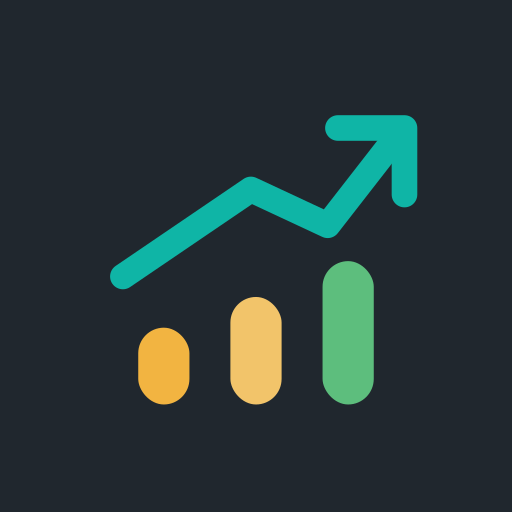
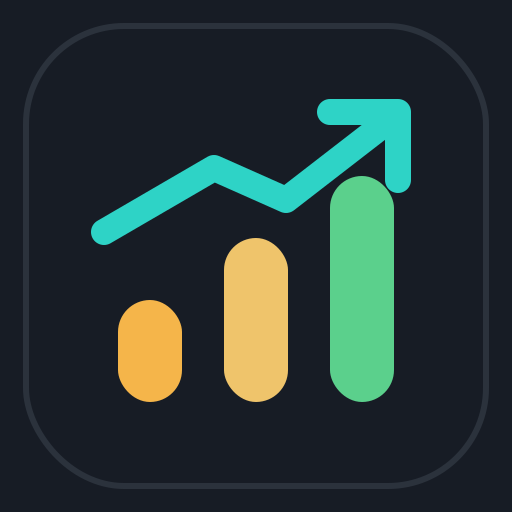
Add files via upload

Changed region(s): [[0.1562, 0.1875, 0.8438, 0.8125], [0.4375, 0.4688, 0.5625, 0.7812], [0.4688, 0.7812, 0.5312, 0.8125]]

diff --git a/index.html b/index.html
@@ -10,15 +10,17 @@
 <meta name="mobile-web-app-capable" content="yes">
 <title>MiAhorro</title>
 <link rel="manifest" href="manifest.json">
-<link rel="apple-touch-icon" href="icons/icon-180.png">
-<link rel="icon" type="image/png" href="icons/icon-192.png">
+<link rel="apple-touch-icon" href="icon-180.png">
+<link rel="apple-touch-icon" sizes="180x180" href="icon-180.png">
+<link rel="icon" type="image/png" href="icon-192.png">
 <script src="https://cdn.jsdelivr.net/npm/chart.js@4.4.1/dist/chart.umd.min.js"></script>
 <script src="https://cdn.jsdelivr.net/npm/xlsx@0.18.5/dist/xlsx.full.min.js"></script>
 <script src="https://cdnjs.cloudflare.com/ajax/libs/pdf.js/3.11.174/pdf.min.js"></script>
 <style>
   :root{--navy:#12203a;--teal:#0FB5A6;--coral:#F0685A;--amber:#F2B441;--purple:#8B6DB3;
-        --ink:#1f2d3d;--muted:#7c8797;--bg:#f5f7fa;--card:#fff;--line:#e9edf2;--green:#22A06B}
-  body.dark{--navy:#e8edf4;--ink:#e8edf4;--muted:#8a97a8;--bg:#0e1521;--card:#161f2e;--line:#243040}
+        --ink:#1f2d3d;--muted:#7c8797;--bg:#f5f7fa;--card:#fff;--line:#e9edf2;--green:#22A06B;--barbg:#eef2f7;--okbg:#e6f6ee;--nobg:#fdeceb;--warnbg:#fff2d6}
+  body.dark{--navy:#e8edf4;--ink:#e8edf4;--muted:#8a97a8;--bg:#0e1521;--card:#161f2e;--line:#243040;
+            --barbg:#243040;--okbg:#123a29;--nobg:#3a1c1c;--warnbg:#3a2f14}
   body.dark .selarrow{background:#243040;color:#e8edf4}
   body.dark th{background:#0b1220}
   body.dark .kpi-x{background:#3a475c}
@@ -45,10 +47,10 @@
   .head .title-icon{margin-left:2px}
   .head .sp{margin-left:auto;display:flex;gap:8px}
   .btn{border:0;border-radius:11px;padding:9px 13px;font-weight:700;font-size:13px;cursor:pointer;display:inline-flex;align-items:center;gap:6px}
-  .btn-primary{background:var(--teal);color:#fff}.btn-ghost{background:#fff;color:var(--ink);border:1px solid var(--line)}
+  .btn-primary{background:var(--teal);color:#fff}.btn-ghost{background:var(--card);color:var(--ink);border:1px solid var(--line)}
   .btn:active{transform:scale(.97)}
   select,input{font-family:inherit}
-  select.f{border:1px solid var(--line);border-radius:10px;padding:8px 10px;font-weight:700;font-size:13px;background:#fff;color:var(--ink)}
+  select.f{border:1px solid var(--line);border-radius:10px;padding:8px 10px;font-weight:700;font-size:13px;background:var(--card);color:var(--ink)}
   .filters{display:flex;gap:8px;flex-wrap:wrap;margin-bottom:14px;align-items:center}
   .selmes{display:flex;align-items:center;gap:8px;background:var(--card);border:1px solid var(--line);border-radius:14px;padding:6px;margin-bottom:12px}
   .selarrow{flex:0 0 44px;height:44px;border:0;border-radius:11px;background:var(--bg);color:var(--navy);font-size:24px;font-weight:800;cursor:pointer;line-height:1}
@@ -66,23 +68,23 @@
   .panel h3{margin:0 0 10px;font-size:14px;font-weight:800;color:var(--navy)}
   .chartbox{position:relative;height:250px}
   .empty{color:var(--muted);font-size:13px;text-align:center;padding:30px 0}
-  table{width:100%;border-collapse:collapse;background:#fff;border-radius:12px;overflow:hidden;border:1px solid var(--line)}
+  table{width:100%;border-collapse:collapse;background:var(--card);color:var(--ink);border-radius:12px;overflow:hidden;border:1px solid var(--line)}
   th{background:var(--navy);color:#fff;font-size:11px;padding:8px;text-align:left}
   td{padding:7px 8px;border-top:1px solid var(--line);font-size:12.5px}
-  td select{border:1px solid var(--line);border-radius:6px;padding:4px;font-size:12px;width:100%;max-width:170px}
+  td select{border:1px solid var(--line);border-radius:6px;padding:4px;font-size:12px;width:100%;max-width:170px;background:var(--card);color:var(--ink)}
   td.num{text-align:right;font-variant-numeric:tabular-nums;white-space:nowrap}
   .neg{color:var(--coral)}.pos{color:var(--green)}
   .del{color:var(--coral);cursor:pointer;font-weight:800;border:0;background:none;font-size:15px}
   .tag{display:inline-block;padding:2px 7px;border-radius:20px;font-size:10px;font-weight:700}
-  .tag.trans{background:#eef2f7;color:var(--muted)}.tag.pet{background:#fff2d6;color:#8a5a00}.tag.aho{background:#e6f6ee;color:var(--green)}
-  .param{background:#fff;border:1px solid var(--line);border-radius:12px;padding:10px 12px;margin-bottom:8px}
+  .tag.trans{background:var(--barbg);color:var(--muted)}.tag.pet{background:var(--warnbg);color:#8a5a00}.tag.aho{background:var(--okbg);color:var(--green)}
+  .param{background:var(--card);border:1px solid var(--line);border-radius:12px;padding:10px 12px;margin-bottom:8px}
   .param label{display:block;font-size:11px;color:var(--muted);font-weight:700;margin-bottom:4px}
-  .param input{border:1px solid var(--line);border-radius:8px;padding:8px;width:100%;font-size:14px;font-weight:700}
+  .param input{border:1px solid var(--line);border-radius:8px;padding:8px;width:100%;font-size:14px;font-weight:700;background:var(--bg);color:var(--ink)}
   .badge{display:inline-block;padding:3px 10px;border-radius:20px;font-size:13px;font-weight:800}
-  .badge.ok{background:#e6f6ee;color:var(--green)}.badge.no{background:#fdeceb;color:var(--coral)}
-  .bar{height:8px;background:#eef2f7;border-radius:6px;overflow:hidden;margin-top:4px}
+  .badge.ok{background:var(--okbg);color:var(--green)}.badge.no{background:var(--nobg);color:var(--coral)}
+  .bar{height:8px;background:var(--barbg);border-radius:6px;overflow:hidden;margin-top:4px}
   .bar>span{display:block;height:100%;background:var(--teal)}.bar.warn>span{background:var(--amber)}.bar.over>span{background:var(--coral)}
-  .metabar{position:relative;height:34px;background:#eef2f7;border-radius:12px;overflow:hidden;margin-top:6px}
+  .metabar{position:relative;height:34px;background:var(--barbg);border-radius:12px;overflow:hidden;margin-top:6px}
   .metabar>span{display:block;height:100%;background:linear-gradient(90deg,var(--teal),var(--green));border-radius:12px;transition:width .4s}
   .metabar.warn>span{background:linear-gradient(90deg,var(--amber),#e89b1c)}
   .metabar.over>span{background:linear-gradient(90deg,var(--coral),#d94f42)}
@@ -96,7 +98,7 @@
   .budgetrow{display:grid;grid-template-columns:1fr 100px auto;gap:8px;align-items:center;padding:7px 0;border-top:1px solid var(--line)}
   .budgetrow input{border:1px solid var(--line);border-radius:8px;padding:6px;font-size:13px}
   /* barra de pestañas inferior tipo app */
-  .tabs{position:fixed;left:0;right:0;bottom:0;background:#fff;border-top:1px solid var(--line);display:flex;z-index:40;box-shadow:0 -2px 10px rgba(0,0,0,.04)}
+  .tabs{position:fixed;left:0;right:0;bottom:0;background:var(--card);border-top:1px solid var(--line);display:flex;z-index:40;box-shadow:0 -2px 10px rgba(0,0,0,.04)}
   .tab{flex:1;border:0;background:none;padding:9px 4px 8px;font-size:10.5px;font-weight:700;color:var(--muted);cursor:pointer;display:flex;flex-direction:column;align-items:center;gap:3px}
   .tab .ic{font-size:19px}
   .tab.active{color:var(--teal)}
@@ -104,7 +106,17 @@
   .tips div.tip{display:flex;gap:10px;padding:9px 0;border-top:1px solid var(--line)}
   .overlay{position:fixed;inset:0;background:rgba(18,32,58,.5);display:none;align-items:flex-end;justify-content:center;z-index:60}
   .overlay.show{display:flex}
-  .modal{background:#fff;border-radius:18px 18px 0 0;padding:20px;width:100%;max-width:640px;max-height:88vh;overflow:auto}
+  .modal{background:var(--card);color:var(--ink);border-radius:18px 18px 0 0;padding:20px;width:100%;max-width:640px;max-height:88vh;overflow:auto}
+  .modal.welcome{border-radius:20px;max-width:420px;text-align:center;padding:26px 22px;margin:auto}
+  .wel-logo{display:flex;justify-content:center;margin-bottom:14px}
+  .wel-title{font-size:23px;font-weight:800;color:var(--navy);margin:0 0 8px}
+  .wel-sub{font-size:14px;color:var(--muted);line-height:1.45;margin:0 0 18px}
+  .wel-steps{text-align:left;display:flex;flex-direction:column;gap:12px;margin-bottom:16px}
+  .wel-step{display:flex;gap:11px;align-items:flex-start}
+  .wel-num{flex:0 0 26px;height:26px;border-radius:50%;background:var(--teal);color:#fff;font-weight:800;font-size:13px;display:flex;align-items:center;justify-content:center}
+  .wel-step b{display:block;font-size:14px;color:var(--ink);margin-bottom:1px}
+  .wel-step span{font-size:12.5px;color:var(--muted);line-height:1.4}
+  .wel-priv{font-size:12px;font-weight:700;color:var(--green);background:var(--okbg);border-radius:10px;padding:9px;margin-bottom:16px}
   @media(min-width:620px){.overlay{align-items:center}.modal{border-radius:18px}}
   .modal h3{margin:0 0 6px}.modal label{font-weight:700;font-size:13px;display:block;margin-top:10px}
   .modal select,.modal input[type=number],.modal input[type=text],.modal input[type=date]{width:100%;border:1px solid var(--line);border-radius:10px;padding:10px;font-size:14px}
@@ -121,13 +133,14 @@
 <div class="wrap">
   <div class="head">
     <div class="brand">
-      <svg width="36" height="36" viewBox="0 0 200 200" xmlns="http://www.w3.org/2000/svg" style="flex:0 0 36px">
-        <rect x="8" y="8" width="184" height="184" rx="46" fill="#20272e" stroke="#3a424c" stroke-width="2.5"/>
-        <rect x="54" y="128" width="20" height="30" rx="10" fill="#F2B441"/>
-        <rect x="90" y="116" width="20" height="42" rx="10" fill="#F2C46A"/>
-        <rect x="126" y="102" width="20" height="56" rx="10" fill="#5DBE7D"/>
-        <path d="M48 108 L98 74 L128 88 L156 52" fill="none" stroke="#0FB5A6" stroke-width="10" stroke-linecap="round" stroke-linejoin="round"/>
-        <path d="M132 50 L158 50 L158 76" fill="none" stroke="#0FB5A6" stroke-width="10" stroke-linecap="round" stroke-linejoin="round"/>
+      <svg width="36" height="36" viewBox="0 0 512 512" xmlns="http://www.w3.org/2000/svg" style="flex:0 0 36px">
+        <rect x="0" y="0" width="512" height="512" rx="118" fill="#171C25"/>
+        <rect x="26" y="26" width="460" height="460" rx="98" fill="none" stroke="#2B323C" stroke-width="6"/>
+        <rect x="118" y="300" width="64" height="102" rx="32" fill="#F5B54A"/>
+        <rect x="224" y="238" width="64" height="164" rx="32" fill="#EFC46B"/>
+        <rect x="330" y="176" width="64" height="226" rx="32" fill="#5BD08C"/>
+        <path d="M104 232 L214 168 L286 200 L392 118" fill="none" stroke="#2ED3C6" stroke-width="26" stroke-linecap="round" stroke-linejoin="round"/>
+        <path d="M330 112 L398 112 L398 180" fill="none" stroke="#2ED3C6" stroke-width="26" stroke-linecap="round" stroke-linejoin="round"/>
       </svg>
       <span class="brand-txt">Mi<span class="brand-hl">Ahorro</span></span>
     </div>
@@ -204,6 +217,32 @@
   <div class="row"><button class="btn btn-primary" onclick="closeM('ov-desglose')">Cerrar</button></div>
 </div></div>
 
+<div class="overlay" id="ov-welcome"><div class="modal welcome">
+  <div class="wel-logo">
+    <svg width="76" height="76" viewBox="0 0 512 512" xmlns="http://www.w3.org/2000/svg">
+      <rect x="0" y="0" width="512" height="512" rx="118" fill="#171C25"/>
+      <rect x="26" y="26" width="460" height="460" rx="98" fill="none" stroke="#2B323C" stroke-width="6"/>
+      <rect x="118" y="300" width="64" height="102" rx="32" fill="#F5B54A"/>
+      <rect x="224" y="238" width="64" height="164" rx="32" fill="#EFC46B"/>
+      <rect x="330" y="176" width="64" height="226" rx="32" fill="#5BD08C"/>
+      <path d="M104 232 L214 168 L286 200 L392 118" fill="none" stroke="#2ED3C6" stroke-width="26" stroke-linecap="round" stroke-linejoin="round"/>
+      <path d="M330 112 L398 112 L398 180" fill="none" stroke="#2ED3C6" stroke-width="26" stroke-linecap="round" stroke-linejoin="round"/>
+    </svg>
+  </div>
+  <h2 class="wel-title">Bienvenido a <span style="color:var(--teal)">MiAhorro</span></h2>
+  <p class="wel-sub">Controla tus gastos y mira crecer tu ahorro. Sin registros, sin cuentas: todo se queda en tu móvil.</p>
+  <div class="wel-steps">
+    <div class="wel-step"><div class="wel-num">1</div><div><b>Sube tu extracto</b><span>PDF de tu banco o CSV. Se lee aquí mismo, no se envía a ningún sitio.</span></div></div>
+    <div class="wel-step"><div class="wel-num">2</div><div><b>Revisa las categorías</b><span>Se clasifican solas. Lo que corrijas, se aprende para la próxima.</span></div></div>
+    <div class="wel-step"><div class="wel-num">3</div><div><b>Ponte una meta</b><span>Verás cuánto llevas y cuándo la alcanzarás a tu ritmo.</span></div></div>
+  </div>
+  <div class="wel-priv">🔒 Tus datos nunca salen de este dispositivo</div>
+  <div class="row" style="flex-direction:column;gap:8px">
+    <button class="btn btn-primary" style="width:100%;justify-content:center;padding:13px" onclick="cerrarWelcome(true)">📤 Subir mi primer extracto</button>
+    <button class="btn btn-ghost" style="width:100%;justify-content:center" onclick="cerrarWelcome(false)">Explorar por mi cuenta</button>
+  </div>
+</div></div>
+
 <script>
 pdfjsLib.GlobalWorkerOptions.workerSrc='https://cdnjs.cloudflare.com/ajax/libs/pdf.js/3.11.174/pdf.worker.min.js';
 /* ================= LÓGICA (categorías, reglas, parsers) ================= */
@@ -227,7 +266,9 @@ var CAT_AHORRO='Ahorro (a MyInvestor)';
 var CAT_MASCOTA='Mascota';
 
 // Palabras que identifican un ingreso REAL de nómina/facturación
-var NOMINA_KW=['CARAT','REFINERY','SEEDTAG'];
+// Palabras genéricas que identifican una nómina. El usuario puede añadir el nombre
+// de SU empresa desde Ajustes (se guarda solo en su navegador, nunca en el código).
+var NOMINA_KW=['NOMINA','NÓMINA','PAYROLL','SALARIO','SUELDO','RETRIBUCION','RETRIBUCIÓN'];
 // Conceptos que indican APORTACIÓN A AHORRO (tanto MyInvestor como Cuenta Naranja mensual)
 var AHORRO_KW=['MYINVESTOR','MY INVESTOR','INVERSION','INVERSIÓN','MENSUAL','NARANJA','AHORRO'];
 // Traspasos "puros" que no cuentan ni como gasto, ni como ingreso, ni como ahorro
@@ -240,7 +281,14 @@ var CONCEPTO_PERSONAL=['SIN CONCEPTO','SOBRA','DEVUELVAS'];
 
 function upper(s){return String(s||'').toUpperCase();}
 function containsAny(s,arr){s=upper(s);for(var i=0;i<arr.length;i++){if(s.indexOf(arr[i])>=0)return true;}return false;}
-function esNomina(concepto){return containsAny(concepto,NOMINA_KW);}
+function esNomina(concepto){
+  if(containsAny(concepto,NOMINA_KW))return true;
+  // Empresas/pagadores que el usuario haya configurado en Ajustes (solo en su navegador)
+  var extra=(state&&state.params&&state.params.nominaKw)||'';
+  if(!extra)return false;
+  var lista=String(extra).split(/[,;\n]+/).map(function(s){return s.trim().toUpperCase();}).filter(Boolean);
+  return containsAny(concepto,lista);
+}
 // Bizum/transferencia RECIBIDA de una persona → ingreso.
 // Distingue "recibido/abono" (entra) de "emitido/enviado" (sale). Excluye movimientos propios.
 function esBizumRecibido(concepto){
@@ -266,13 +314,13 @@ function esCuentaAhorro(cuenta){
 //  - Concepto que menciona la otra cuenta de ahorro pero vive en NÓMINA/Abanca → también ahorro
 //  - Los demás traspasos internos (NÓMINA↔NoCuenta) → CAT_TRASPASO
 //  - Conceptos de piso/personal → CAT_TRASPASO
-//  - Nómina reconocida (Carat/Refinery/Seedtag) → CAT_INGRESO
+//  - Nómina reconocida (palabras genéricas + las que configure el usuario) → CAT_INGRESO
 //  - Negativos con comercios → gasto según regla
 function categorizar(concepto, importe, cuenta){
   var c=upper(concepto), cta=upper(cuenta||'');
 
   // ══ REGLA DE ORO ══
-  // INGRESO = solo tu nómina real (CARAT/REFINERY/SEEDTAG).
+  // INGRESO = tu nómina real + bizums recibidos de personas.
   // GASTO   = solo dinero que sale a un tercero (comercio, recibo, alquiler).
   // TRASPASO = mover TU dinero entre TUS cuentas (Abanca↔ING↔Naranja↔MyInvestor). No cuenta.
   // AHORRO  = aportar/retirar de tus cuentas de ahorro (Naranja, MyInvestor).
@@ -295,7 +343,7 @@ function categorizar(concepto, importe, cuenta){
   if(/\bTRASPASO\b|MOVIMIENTO ING|ENTRE CUENTAS|A MI CUENTA|A CUENTA PROPIA|CUENTA PROPIA/i.test(c)) return CAT_TRASPASO;
 
   // 4) POSITIVOS (entra dinero):
-  //    - Nómina (Carat/Refinery/Seedtag) → INGRESO
+  //    - Nómina (genérica o configurada en Ajustes) → INGRESO
   //    - Bizum recibido de una persona → INGRESO
   //    - Lo demás (mover tu propio dinero entre cuentas) → TRASPASO
   if(importe>0){
@@ -560,7 +608,7 @@ function parseCsv(t,sep){var rows=[],row=[],f='',q=false;for(var i=0;i<t.length;
 
 /* ================= ESTADO (solo un perfil) ================= */
 var KEY='misGastos_v1';
-function nuevoEstado(){return {params:{obj:400,umbral:15,saldoInicial:0,saldoFecha:'',objTotal:0},mov:[],rules:REGLAS_DEF.slice(),budgets:{},hiddenKpis:[]};}
+function nuevoEstado(){return {params:{obj:400,umbral:15,saldoInicial:0,saldoFecha:'',objTotal:0,nominaKw:''},mov:[],rules:REGLAS_DEF.slice(),budgets:{},hiddenKpis:[]};}
 var state=cargar();
 function cargar(){try{var s=localStorage.getItem(KEY);
   if(!s){ // intentar migrar de la versión pareja (v3) si existiera
@@ -618,7 +666,8 @@ function promedioAhorro(){var ms=meses();if(!ms.length)return {v:0,fuente:'sin-d
 function setTab(t){tab=t;[].forEach.call(document.querySelectorAll('.tab'),function(b){b.classList.toggle('active',b.dataset.v===t);});
   [].forEach.call(document.querySelectorAll('.view'),function(v){v.classList.remove('active');});
   document.getElementById('v-'+t).classList.add('active');
-  document.querySelector('.filters').style.display=(t==='ajustes')?'none':'flex';
+  // Los filtros de categoría/mascota solo tienen sentido en Resumen y Movimientos
+  document.querySelector('.filters').style.display=(t==='ajustes'||t==='ahorro')?'none':'flex';
   render();window.scrollTo(0,0);}
 function setMes(v){mes=v;render();}
 function setMask(v){maskFilter=v;render();}
@@ -672,7 +721,7 @@ function renderResumen(){
     +avisoBalance(d)
     +comparativaMes()
     +resumenAnual()
-    +'<div class="panel"><h3>🧭 ¿Dónde se va el dinero?</h3><div class="chartbox"><canvas id="cDon"></canvas></div></div>'
+    +'<div class="panel"><h3>🧭 ¿Dónde se va el dinero?</h3><div class="chartbox"><canvas id="cDon"></canvas></div><div id="donInfo"></div><div class="hint" style="text-align:center;margin-top:6px">Toca una porción para ver el importe</div></div>'
     +'<div class="panel"><h3>⚖ Gasto vs Ahorro</h3><div class="chartbox"><canvas id="cBar"></canvas></div></div>'
     +renderPresupuestos()
     +renderTips();
@@ -695,7 +744,7 @@ function avisoBalance(d){
   if(balance<0){
     // Ingresos cubren gastos, pero al sumar el ahorro te pasas → aportaste ahorro tirando de colchón
     return '<div class="panel" style="border-left:4px solid var(--amber)">'
-      +'<div style="font-weight:800;color:#c8860a;font-size:14px">💡 Aportaste más al ahorro de lo que te sobró</div>'
+      +'<div style="font-weight:800;color:var(--amber);font-size:14px">💡 Aportaste más al ahorro de lo que te sobró</div>'
       +'<div style="font-size:13px;color:var(--ink);margin-top:5px">Ingresaste '+eur0.format(d.ingresos)+', gastaste '+eur0.format(d.gastos)+' y ahorraste '+eur0.format(d.ahorroExplicito)+'. Para cuadrar el ahorro tiraste '+eur0.format(-balance)+' de tu colchón. Es normal si fue a propósito.</div></div>';
   }
   return '';
@@ -844,11 +893,11 @@ function renderMetaTotal(ahoAcum,pp){
     var fecha=new Date();fecha.setMonth(fecha.getMonth()+mesesFaltan);
     var fstr=['ene','feb','mar','abr','may','jun','jul','ago','sep','oct','nov','dic'][fecha.getMonth()]+' '+fecha.getFullYear();
     var tiempoTxt = mesesFaltan<=1?'el mes que viene':(mesesFaltan<12?('en '+mesesFaltan+' meses'):('en '+Math.floor(mesesFaltan/12)+' año'+(mesesFaltan>=24?'s':'')+(mesesFaltan%12?' y '+(mesesFaltan%12)+' meses':'')));
-    proy='<div style="margin-top:12px;padding:12px;background:#eef7f2;border-radius:12px">'
+    proy='<div style="margin-top:12px;padding:12px;background:var(--okbg);border-radius:12px">'
       +'<div style="font-size:14px;font-weight:800;color:var(--navy)">📅 Si sigues ahorrando '+eur0.format(ritmo)+'/mes…</div>'
       +'<div style="font-size:13px;color:var(--ink);margin-top:4px">Alcanzarás tu meta <b style="color:var(--green)">'+tiempoTxt+'</b> (sobre '+fstr+'). Te faltan <b>'+eur0.format(falta)+'</b>.</div></div>';
   } else {
-    proy='<div style="margin-top:12px;padding:12px;background:#fdeceb;border-radius:12px;font-size:13px">Aún no tengo ritmo de ahorro para estimar. Sube algún extracto con aportaciones.</div>';
+    proy='<div style="margin-top:12px;padding:12px;background:var(--nobg);border-radius:12px;font-size:13px">Aún no tengo ritmo de ahorro para estimar. Sube algún extracto con aportaciones.</div>';
   }
   return '<div class="panel">'
     +'<h3 style="display:flex;justify-content:space-between;align-items:center">🏁 Meta de ahorro total <span style="font-weight:normal;font-size:12px;color:var(--muted)">'+eur0.format(ahoAcum)+' / '+eur0.format(meta)+'</span></h3>'
@@ -861,6 +910,7 @@ function renderAjustes(){
   document.getElementById('v-ajustes').innerHTML=
      '<div class="panel"><h3>⚙ Tus ajustes</h3>'
     +'<div class="param"><label>Objetivo de ahorro al mes (€)</label><input type="number" step="10" value="'+(p.obj||0)+'" onchange="setParam(\'obj\',this.value)"></div>'
+    +'<div class="param"><label>💼 Quién te paga la nómina <span style="font-weight:normal;color:var(--muted);font-size:11px">— nombre que aparece en tu banco. Varios separados por comas. Se guarda solo en tu móvil.</span></label><input type="text" placeholder="Ej: MI EMPRESA SL, GRUPO XYZ" value="'+esc(p.nominaKw||'')+'" onchange="setParam(\'nominaKw\',this.value)"></div>'
     +'<div class="param"><label>🏁 Meta de ahorro TOTAL (€) — a dónde quieres llegar</label><input type="number" step="500" value="'+(p.objTotal||0)+'" onchange="setParam(\'objTotal\',this.value)"></div>'
     +'<div class="param"><label>Umbral gasto hormiga (€)</label><input type="number" step="1" value="'+(p.umbral||0)+'" onchange="setParam(\'umbral\',this.value)"></div>'
     +'<div class="param"><label>💰 Saldo ahorrado inicial (€)</label><input type="number" step="100" value="'+(p.saldoInicial||0)+'" onchange="setParam(\'saldoInicial\',this.value)"></div>'
@@ -876,6 +926,7 @@ function renderAjustes(){
     +'<input type="file" id="restore" accept="application/json" style="display:none" onchange="importBackup(event)">'
     +'<button class="btn btn-ghost" onclick="document.getElementById(\'impxls\').click()">📊 Importar mi Excel</button>'
     +'<input type="file" id="impxls" accept=".xlsx,.xls" style="display:none" onchange="importExcel(event)">'
+    +'<button class="btn btn-ghost" onclick="openM(\'ov-welcome\')">👋 Ver la bienvenida</button>'
     +'<button class="btn btn-ghost" onclick="borrarTodo()">🧹 Borrar todo</button>'
     +'</div><div class="hint" style="margin-top:10px">Tus datos se guardan solo en este dispositivo. Haz copia de vez en cuando.</div></div>';
   // presupuestos
@@ -884,29 +935,61 @@ function renderAjustes(){
     return '<div class="budgetrow"><div style="font-size:13px"><b>'+c+'</b></div><input type="number" step="10" placeholder="—" value="'+(b[c]||'')+'" onchange="setBudget(\''+c.replace(/'/g,"\\'")+'\',this.value)"><span class="hint">€/mes</span></div>';
   }).join('');
 }
-function setParam(k,v){if(k==='saldoFecha')state.params[k]=v||'';else state.params[k]=parseFloat(v)||0;guardar();render();}
+function setParam(k,v){
+  if(k==='saldoFecha'||k==='nominaKw')state.params[k]=v||'';
+  else state.params[k]=parseFloat(v)||0;
+  guardar();render();
+}
 function setBudget(c,v){var n=parseFloat(v);if(!n||n<=0)delete state.budgets[c];else state.budgets[c]=n;guardar();}
 
 /* ---------- charts ---------- */
+function esOscuro(){return document.body.classList.contains('dark');}
+function colorTema(){return esOscuro()?{txt:'#e8edf4',grid:'#243040',borde:'#161f2e'}:{txt:'#1f2d3d',grid:'#e9edf2',borde:'#ffffff'};}
 function drawDon(d){destroy('cDon');var it=CATNAMES.map(function(c){return{c:c,v:d.porCat[c]||0};}).filter(function(x){return x.v>0&&x.c!==CAT_INGRESO&&x.c!==CAT_TRASPASO&&x.c!==CAT_AHORRO;}).sort(function(a,b){return b.v-a.v;});
   if(!it.length){var cv=document.getElementById('cDon');if(cv&&cv.parentNode)cv.parentNode.innerHTML='<div class="empty">Sin gastos en esta vista</div>';return;}
-  charts.cDon=new Chart(document.getElementById('cDon'),{type:'doughnut',data:{labels:it.map(function(x){return x.c;}),datasets:[{data:it.map(function(x){return x.v;}),backgroundColor:PAL,borderWidth:2,borderColor:'#fff'}]},
-    options:{cutout:'60%',onClick:function(e,els){if(els&&els.length){var c=it[els[0].index].c;hormFilter=false;catFilter=(catFilter===c)?'':c;setTab('movs');}},plugins:{legend:{position:'bottom',labels:{boxWidth:11,font:{size:10},padding:8}},tooltip:{callbacks:{label:function(c){return ' '+c.label+': '+eur2.format(c.parsed);}}}}}});}
-function drawBar(d){destroy('cBar');charts.cBar=new Chart(document.getElementById('cBar'),{type:'bar',data:{labels:['Gasto','Ahorro'],datasets:[{data:[d.gastos,d.ahorroExplicito],backgroundColor:['#F0685A','#0FB5A6'],borderRadius:10,maxBarThickness:80}]},options:{plugins:{legend:{display:false},tooltip:{callbacks:{label:function(c){return ' '+eur2.format(c.parsed.y);}}}},scales:{y:{ticks:{callback:function(v){return eur0.format(v);}}}}}});}
+  var tc=colorTema();var total=it.reduce(function(a,b){return a+b.v;},0);
+  charts.cDon=new Chart(document.getElementById('cDon'),{type:'doughnut',data:{labels:it.map(function(x){return x.c;}),datasets:[{data:it.map(function(x){return x.v;}),backgroundColor:PAL,borderWidth:2,borderColor:tc.borde}]},
+    options:{cutout:'60%',
+      onClick:function(e,els){if(els&&els.length){var x=it[els[0].index];mostrarDetalleCat(x.c,x.v,total);}},
+      plugins:{legend:{position:'bottom',labels:{boxWidth:11,font:{size:10},padding:8,color:tc.txt}},
+        tooltip:{callbacks:{label:function(c){var pc=total?Math.round(c.parsed/total*100):0;return ' '+c.label+': '+eur2.format(c.parsed)+' ('+pc+'%)';}}}}}});}
+function mostrarDetalleCat(cat,val,total){
+  var pc=total?Math.round(val/total*100):0;
+  var box=document.getElementById('donInfo');
+  if(box)box.innerHTML='<div style="display:flex;justify-content:space-between;align-items:center;gap:8px;padding:9px 11px;background:var(--barbg);border-radius:10px;margin-top:8px">'
+    +'<span style="font-size:13px;font-weight:700;color:var(--ink)">'+esc(cat)+': '+eur2.format(val)+' <span style="color:var(--muted);font-weight:600">('+pc+'%)</span></span>'
+    +'<button class="btn btn-ghost" style="padding:5px 10px;font-size:12px" onclick="verCat(\''+esc(cat).replace(/'/g,"\\'")+'\')">Ver movimientos →</button></div>';
+}
+function verCat(c){hormFilter=false;catFilter=c;setTab('movs');}
+function drawBar(d){destroy('cBar');var tc=colorTema();
+  charts.cBar=new Chart(document.getElementById('cBar'),{type:'bar',data:{labels:['Gasto','Ahorro'],datasets:[{data:[d.gastos,d.ahorroExplicito],backgroundColor:['#F0685A','#0FB5A6'],borderRadius:10,maxBarThickness:80}]},
+    options:{interaction:{mode:'nearest',intersect:false},
+      plugins:{legend:{display:false},tooltip:{callbacks:{label:function(c){return ' '+eur2.format(c.parsed.y);}}}},
+      scales:{y:{ticks:{color:tc.txt,callback:function(v){return eur0.format(v);}},grid:{color:tc.grid}},x:{ticks:{color:tc.txt},grid:{display:false}}}}});}
 function drawProy(pp){destroy('cProy');var prom=pp.v||0;var per=[1,3,6,12,24];
-  var pluginLabels={id:'barLabels',afterDatasetsDraw:function(chart){var ctx=chart.ctx;chart.data.datasets.forEach(function(ds,di){var meta=chart.getDatasetMeta(di);if(di!==0)return;meta.data.forEach(function(bar,i){var val=ds.data[i];ctx.save();ctx.font='700 10px -apple-system,Arial';ctx.fillStyle='#12203a';ctx.textAlign='center';ctx.fillText(eur0.format(val),bar.x,bar.y-5);ctx.restore();});});}};
+  var pluginLabels={id:'barLabels',afterDatasetsDraw:function(chart){var ctx=chart.ctx;chart.data.datasets.forEach(function(ds,di){var meta=chart.getDatasetMeta(di);if(di!==0)return;meta.data.forEach(function(bar,i){var val=ds.data[i];ctx.save();ctx.font='700 10px -apple-system,Arial';ctx.fillStyle=(document.body.classList.contains('dark')?'#e8edf4':'#12203a');ctx.textAlign='center';ctx.fillText(eur0.format(val),bar.x,bar.y-5);ctx.restore();});});}};
   charts.cProy=new Chart(document.getElementById('cProy'),{type:'bar',data:{labels:per.map(function(m){return m+'m';}),datasets:[
     {label:'Ritmo ('+eur0.format(prom)+'/mes)',data:per.map(function(m){return prom*m;}),backgroundColor:prom>=0?'#0FB5A6':'#F0685A',borderRadius:6},
     {label:'Objetivo',data:per.map(function(m){return (+state.params.obj||0)*m;}),backgroundColor:'#F2B441',borderRadius:6}]},
-    options:{layout:{padding:{top:22}},plugins:{legend:{position:'top',labels:{boxWidth:11,font:{size:10}}},tooltip:{callbacks:{label:function(c){return ' '+c.dataset.label+': '+eur0.format(c.parsed.y);}}}},scales:{y:{ticks:{callback:function(v){return eur0.format(v);}}}}},plugins:[pluginLabels]});}
-function drawEvo(){destroy('cEvo');var ms=meses();if(ms.length<1){document.getElementById('evbox').innerHTML='<div class="empty">Sube extractos para ver la evolución.</div>';return;}
+    options:{layout:{padding:{top:22}},interaction:{mode:'index',intersect:false},
+      plugins:{legend:{position:'top',labels:{boxWidth:11,font:{size:10},color:colorTema().txt}},tooltip:{callbacks:{label:function(c){return ' '+c.dataset.label+': '+eur0.format(c.parsed.y);}}}},
+      scales:{y:{ticks:{color:colorTema().txt,callback:function(v){return eur0.format(v);}},grid:{color:colorTema().grid}},x:{ticks:{color:colorTema().txt},grid:{display:false}}}},plugins:[pluginLabels]});}
+function drawEvo(){destroy('cEvo');var tc=colorTema();var ms=meses();if(ms.length<1){document.getElementById('evbox').innerHTML='<div class="empty">Sube extractos para ver la evolución.</div>';return;}
   function val(ym){if(evoMode==='gastos')return gastosDe(ym);if(evoMode==='ingresos')return ingresosDe(ym);return ahorroExpDe(ym);}
-  charts.cEvo=new Chart(document.getElementById('cEvo'),{type:'line',data:{labels:ms.map(mesLegible),datasets:[{label:evoMode,data:ms.map(val),borderColor:'#0FB5A6',backgroundColor:'#0FB5A622',tension:.35,fill:true,pointRadius:4,pointBackgroundColor:'#0FB5A6',borderWidth:2.5}]},options:{plugins:{legend:{display:false},tooltip:{callbacks:{label:function(c){return ' '+eur2.format(c.parsed.y);}}}},scales:{y:{ticks:{callback:function(v){return eur0.format(v);}}}}}});}
+  charts.cEvo=new Chart(document.getElementById('cEvo'),{type:'line',data:{labels:ms.map(mesLegible),datasets:[{label:evoMode,data:ms.map(val),borderColor:'#0FB5A6',backgroundColor:'#0FB5A622',tension:.35,fill:true,pointRadius:4,pointBackgroundColor:'#0FB5A6',borderWidth:2.5}]},options:{interaction:{mode:'index',intersect:false},
+      plugins:{legend:{display:false},tooltip:{callbacks:{title:function(c){return c[0].label;},label:function(c){return ' '+eur2.format(c.parsed.y);}}}},
+      scales:{y:{ticks:{color:tc.txt,callback:function(v){return eur0.format(v);}},grid:{color:tc.grid}},x:{ticks:{color:tc.txt},grid:{display:false}}}}});}
 
 /* ---------- presupuestos y tips ---------- */
 function renderPresupuestos(){
   var b=state.budgets||{},cats=Object.keys(b).filter(function(k){return b[k]>0;});if(!cats.length)return '';
-  var mesRef=mes==='todos'?new Date().toISOString().slice(0,7):mes;var porCat={};
+  // Como los extractos se suben a final de mes, tomamos como referencia el ÚLTIMO MES CON DATOS
+  // (no el mes en curso, que normalmente estaría vacío).
+  var ms=meses();
+  var mesRef;
+  if(mes!=='todos'){mesRef=mes;}
+  else{mesRef=ms.length?ms[ms.length-1]:new Date().toISOString().slice(0,7);}
+  var porCat={};
   state.mov.forEach(function(m){if(String(m.f).slice(0,7)!==mesRef)return;if(m.cat===CAT_TRASPASO||m.cat===CAT_INGRESO||m.cat===CAT_AHORRO)return;if(+m.imp<0)porCat[m.cat]=(porCat[m.cat]||0)+(-m.imp);});
   var html='<div class="panel"><h3>🎯 Presupuestos — '+mesLegible(mesRef)+'</h3>';
   cats.forEach(function(c){var g=porCat[c]||0,tope=+b[c],p=tope>0?Math.min(g/tope,1.3):0;var cls=p<0.75?'':(p<1?'warn':'over');
@@ -945,9 +1028,9 @@ function mostrarDesgloseAhorro(){
   aport.sort(function(a,b){return String(a.f)<String(b.f)?-1:1;});
   var inc=aport.filter(function(a){return a.inc;}),ign=aport.filter(function(a){return !a.inc;});
   var sumInc=inc.reduce(function(a,b){return a+b.imp;},0);var total=ini+sumInc;
-  var html='<div style="display:flex;justify-content:space-between;padding:8px 10px;background:#eef7f2;border-radius:8px;margin-bottom:6px"><b>Saldo inicial'+(corte?(' (a '+corte+')'):'')+'</b><b>'+eur2.format(ini)+'</b></div>';
+  var html='<div style="display:flex;justify-content:space-between;padding:8px 10px;background:var(--okbg);border-radius:8px;margin-bottom:6px"><b>Saldo inicial'+(corte?(' (a '+corte+')'):'')+'</b><b>'+eur2.format(ini)+'</b></div>';
   if(inc.length){html+='<table style="font-size:12px"><tr><th>Fecha</th><th>Concepto</th><th>Tipo</th><th class="num">€</th></tr>'
-    +inc.map(function(a){var tp=a.s>0?'<span class="tag aho">↑</span>':'<span class="tag" style="background:#fdeceb;color:#F0685A">↓</span>';return '<tr><td>'+a.f.slice(5)+'</td><td>'+esc(a.c.slice(0,26))+'</td><td>'+tp+'</td><td class="num '+(a.imp>=0?'pos':'neg')+'">'+eur2.format(a.imp)+'</td></tr>';}).join('')
+    +inc.map(function(a){var tp=a.s>0?'<span class="tag aho">↑</span>':'<span class="tag" style="background:var(--nobg);color:#F0685A">↓</span>';return '<tr><td>'+a.f.slice(5)+'</td><td>'+esc(a.c.slice(0,26))+'</td><td>'+tp+'</td><td class="num '+(a.imp>=0?'pos':'neg')+'">'+eur2.format(a.imp)+'</td></tr>';}).join('')
     +'<tr style="background:#f7fafc"><td colspan="3"><b>Neto aportado</b></td><td class="num"><b>'+eur2.format(sumInc)+'</b></td></tr></table>';}
   if(ign.length)html+='<div class="hint" style="margin-top:10px">⚠ '+ign.length+' aportaciones anteriores a la fecha del saldo se ignoran (para no duplicar).</div>';
   html+='<div style="padding:10px;background:var(--navy);color:#fff;border-radius:10px;text-align:center;font-weight:800;margin-top:10px">Total: '+eur2.format(total)+'</div>';
@@ -1102,8 +1185,19 @@ function exportExcel(){if(typeof XLSX==='undefined'){alert('Sin conexión, no pu
   XLSX.utils.book_append_sheet(wb,XLSX.utils.aoa_to_sheet(ev),'Evolución');
   XLSX.writeFile(wb,'mis-gastos-'+new Date().toISOString().slice(0,10)+'.xlsx');}
 
+function cerrarWelcome(abrirImport){
+  try{localStorage.setItem('miAhorroVisto','1');}catch(e){}
+  closeM('ov-welcome');
+  if(abrirImport)openImport();
+}
+function quizaWelcome(){
+  var visto=null;try{visto=localStorage.getItem('miAhorroVisto');}catch(e){}
+  // Solo a usuarios nuevos: sin movimientos y sin haberlo visto antes
+  if(!visto && (!state.mov || !state.mov.length))openM('ov-welcome');
+}
 aplicarTema();
 setTab('resumen');
+quizaWelcome();
 // Registrar service worker para funcionamiento offline (PWA)
 if('serviceWorker' in navigator){window.addEventListener('load',function(){navigator.serviceWorker.register('sw.js').catch(function(){});});}
 </script>
